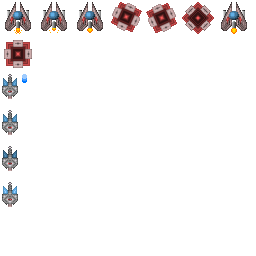
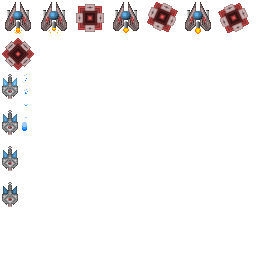
add sparks when firing

diff --git a/world.cpp b/world.cpp
@@ -51,8 +51,14 @@ static bool test_collision(const CollisionMask &sprite1, const glm::vec2 &pos1, 
 Player::Player()
 {
     const auto frame_tiles = {"player-0.png", "player-1.png", "player-2.png", "player-3.png"};
-    for (const auto tile : frame_tiles)
-        frames.push_back(get_tile(tile));
+    std::transform(frame_tiles.begin(), frame_tiles.end(), std::back_inserter(frames), [](const auto tile) {
+        return get_tile(tile);
+    });
+
+    const auto spark_tiles = {"spark-0.png", "spark-1.png", "spark-2.png", "spark-3.png"};
+    std::transform(spark_tiles.begin(), spark_tiles.end(), std::back_inserter(sparks), [](const auto tile) {
+        return get_tile(tile);
+    });
 }
 
 Foe::Foe(const Wave *wave)
@@ -138,6 +144,12 @@ void World::render() const
         draw_tile(missile_tile, missile.position, 0);
 
     draw_tile(player_.frames[player_.cur_frame], player_.position, 0);
+    if (player_.fire_tics > 0)
+    {
+        int spark_frame = (MissileSpawnInterval - player_.fire_tics) * player_.sparks.size() / MissileSpawnInterval;
+        draw_tile(player_.sparks[spark_frame], player_.position - static_cast<float>(SpriteScale) * glm::vec2(-9.5, 12.5), 0);
+        draw_tile(player_.sparks[spark_frame], player_.position - static_cast<float>(SpriteScale) * glm::vec2(9.5, 12.5), 0);
+    }
 }
 
 World::ActiveWave::ActiveWave(const Wave *wave)

diff --git a/world.h b/world.h
@@ -22,6 +22,7 @@ struct Player
     Player();
 
     std::vector<const Tile *> frames;
+    std::vector<const Tile *> sparks;
     glm::vec2 position;
     int cur_frame = 0;
     int fire_tics = 0;
